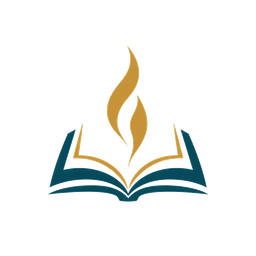
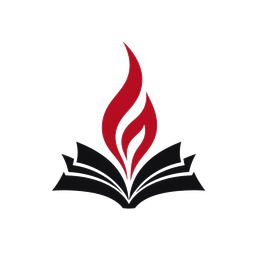
Restyle brand to black, white, and crimson.
Replace gold/teal accents, refresh logo and icons, and swap the text-heavy hero image.

Changed region(s): [[0.1875, 0.1562, 0.8125, 0.8438]]

diff --git a/src/style.css b/src/style.css
@@ -1,18 +1,18 @@
 :root {
-  --ink: #141c28;
-  --ink-soft: #5a6578;
-  --paper: #f4f7f8;
-  --paper-2: #e8eef1;
-  --sea: #234f5e;
-  --sea-deep: #173844;
-  --gold: #b08a4b;
-  --gold-soft: #d2b27a;
-  --line: rgba(20, 28, 40, 0.1);
-  --line-strong: rgba(20, 28, 40, 0.16);
+  --ink: #0a0a0a;
+  --ink-soft: #525252;
+  --paper: #ffffff;
+  --paper-2: #f4f4f5;
+  --sea: #111111;
+  --sea-deep: #000000;
+  --gold: #b91c1c;
+  --gold-soft: #e11d48;
+  --line: rgba(0, 0, 0, 0.1);
+  --line-strong: rgba(0, 0, 0, 0.16);
   --white: #ffffff;
-  --surface: rgba(255, 255, 255, 0.86);
+  --surface: rgba(255, 255, 255, 0.92);
   --surface-solid: #ffffff;
-  --shadow: 0 18px 40px rgba(20, 28, 40, 0.08);
+  --shadow: 0 18px 40px rgba(0, 0, 0, 0.08);
   --radius: 18px;
   --radius-sm: 12px;
   --font-display: "Instrument Serif", Georgia, serif;
@@ -38,9 +38,9 @@ body {
   font-family: var(--font-body);
   color: var(--ink);
   background:
-    radial-gradient(900px 420px at 8% -5%, rgba(35, 79, 94, 0.07), transparent 55%),
-    radial-gradient(800px 380px at 100% 0%, rgba(176, 138, 75, 0.08), transparent 50%),
-    linear-gradient(180deg, #f7fafb 0%, var(--paper) 45%, var(--paper-2) 100%);
+    radial-gradient(900px 420px at 8% -5%, rgba(185, 28, 28, 0.06), transparent 55%),
+    radial-gradient(800px 380px at 100% 0%, rgba(0, 0, 0, 0.04), transparent 50%),
+    linear-gradient(180deg, #ffffff 0%, var(--paper) 50%, var(--paper-2) 100%);
   line-height: 1.65;
   font-size: 1.02rem;
   font-weight: 400;
@@ -88,7 +88,7 @@ main,
   align-items: center;
   gap: 1.25rem;
   padding: 0.85rem clamp(1.25rem, 4vw, 3rem);
-  background: rgba(247, 250, 251, 0.88);
+  background: rgba(255, 255, 255, 0.9);
   backdrop-filter: blur(16px);
   border-bottom: 1px solid var(--line);
 }
@@ -150,7 +150,7 @@ main,
   align-items: center;
   justify-content: center;
   padding: 0.65rem 1.15rem;
-  background: var(--sea);
+  background: var(--gold);
   color: var(--white);
   font-size: 0.88rem;
   font-weight: 700;
@@ -159,7 +159,7 @@ main,
 }
 
 .header-cta:hover {
-  background: var(--sea-deep);
+  background: var(--gold-soft);
   transform: translateY(-1px);
 }
 
@@ -209,8 +209,8 @@ main,
   inset: 0;
   z-index: 1;
   background:
-    linear-gradient(90deg, rgba(12, 22, 32, 0.86) 0%, rgba(12, 22, 32, 0.55) 48%, rgba(12, 22, 32, 0.22) 100%),
-    linear-gradient(0deg, rgba(12, 22, 32, 0.78) 0%, transparent 55%);
+    linear-gradient(90deg, rgba(0, 0, 0, 0.88) 0%, rgba(0, 0, 0, 0.58) 48%, rgba(0, 0, 0, 0.28) 100%),
+    linear-gradient(0deg, rgba(0, 0, 0, 0.8) 0%, transparent 55%);
 }
 
 .hero-copy {
@@ -241,14 +241,14 @@ main,
 
 .hero h1 {
   font-size: clamp(2.9rem, 7vw, 5.2rem);
-  color: #fffcf7;
+  color: #ffffff;
 }
 
 .hero-lede {
   margin: 0 0 1.75rem;
   max-width: 33rem;
   font-size: 1.08rem;
-  color: rgba(255, 252, 247, 0.9);
+  color: rgba(255, 255, 255, 0.9);
 }
 
 .hero-actions,
@@ -279,7 +279,7 @@ main,
 
 .btn-primary {
   background: var(--gold);
-  color: #1a140c;
+  color: #ffffff;
 }
 
 .btn-primary:hover {
@@ -288,13 +288,13 @@ main,
 
 .btn-ghost {
   background: transparent;
-  border-color: rgba(255, 252, 247, 0.45);
+  border-color: rgba(255, 255, 255, 0.45);
   color: var(--white);
 }
 
 .btn-ghost:hover {
   border-color: var(--white);
-  background: rgba(255, 252, 247, 0.08);
+  background: rgba(255, 255, 255, 0.08);
 }
 
 .btn-outline {
@@ -305,7 +305,7 @@ main,
 
 .btn-outline:hover {
   border-color: var(--sea);
-  background: rgba(35, 79, 94, 0.05);
+  background: rgba(0, 0, 0, 0.04);
 }
 
 .btn-wide {
@@ -333,7 +333,7 @@ main,
 .page-hero-veil {
   position: absolute;
   inset: 0;
-  background: linear-gradient(90deg, rgba(244, 247, 248, 0.94) 0%, rgba(244, 247, 248, 0.82) 48%, rgba(244, 247, 248, 0.55) 100%);
+  background: linear-gradient(90deg, rgba(255, 255, 255, 0.96) 0%, rgba(255, 255, 255, 0.88) 48%, rgba(255, 255, 255, 0.58) 100%);
 }
 
 .page-hero-inner {
@@ -526,14 +526,14 @@ h3 {
 .text-link {
   color: var(--sea);
   font-weight: 700;
-  border-bottom: 1px solid rgba(35, 79, 94, 0.3);
+  border-bottom: 1px solid rgba(185, 28, 28, 0.35);
 }
 
 .soon-tag {
   display: inline-flex;
   padding: 0.35rem 0.7rem;
   border-radius: 999px;
-  background: rgba(176, 138, 75, 0.12);
+  background: rgba(185, 28, 28, 0.1);
   color: var(--gold);
   font-size: 0.75rem;
   font-weight: 700;
@@ -574,7 +574,7 @@ h3 {
 .field textarea {
   width: 100%;
   border: 1px solid var(--line-strong);
-  background: rgba(255, 252, 247, 0.95);
+  background: rgba(255, 255, 255, 0.98);
   border-radius: var(--radius-sm);
   padding: 0.85rem 1rem;
   color: var(--ink);
@@ -585,7 +585,7 @@ h3 {
 .field input:focus,
 .field textarea:focus {
   border-color: var(--sea);
-  box-shadow: 0 0 0 3px rgba(35, 79, 94, 0.12);
+  box-shadow: 0 0 0 3px rgba(185, 28, 28, 0.14);
 }
 
 .totals {
@@ -755,11 +755,11 @@ h3 {
 .site-footer {
   position: relative;
   overflow: hidden;
-  border-top: 1px solid rgba(255, 252, 247, 0.08);
+  border-top: 1px solid rgba(255, 255, 255, 0.08);
   padding: clamp(3.5rem, 7vw, 5rem) clamp(1.25rem, 4vw, 3rem) 2rem;
   background:
-    linear-gradient(160deg, #122633 0%, #1a3a48 48%, #0f1f29 100%);
-  color: rgba(255, 252, 247, 0.78);
+    linear-gradient(160deg, #000000 0%, #111111 48%, #0a0a0a 100%);
+  color: rgba(255, 255, 255, 0.78);
 }
 
 .footer-glow {
@@ -767,7 +767,7 @@ h3 {
   inset: -20% auto auto 30%;
   width: 50%;
   height: 60%;
-  background: radial-gradient(circle, rgba(176, 138, 75, 0.22), transparent 70%);
+  background: radial-gradient(circle, rgba(185, 28, 28, 0.28), transparent 70%);
   pointer-events: none;
 }
 
@@ -783,7 +783,7 @@ h3 {
   grid-template-columns: 1.15fr 1.35fr;
   gap: clamp(2rem, 5vw, 3.5rem);
   padding-bottom: 2.25rem;
-  border-bottom: 1px solid rgba(255, 252, 247, 0.1);
+  border-bottom: 1px solid rgba(255, 255, 255, 0.1);
 }
 
 .footer-brand {
@@ -802,7 +802,7 @@ h3 {
 
 .footer-inner .brand-name {
   margin: 0 0 0.2rem;
-  color: #fffcf7;
+  color: #ffffff;
   font-size: 1.7rem;
 }
 
@@ -816,7 +816,7 @@ h3 {
 .footer-blurb {
   margin: 0 0 1.25rem;
   max-width: 34rem;
-  color: rgba(255, 252, 247, 0.72);
+  color: rgba(255, 255, 255, 0.72);
 }
 
 .footer-cta {
@@ -834,14 +834,14 @@ h3 {
   font-family: var(--font-display);
   font-size: 1.25rem;
   font-weight: 400;
-  color: #fffcf7;
+  color: #ffffff;
 }
 
 .footer-col a,
 .footer-col p {
   display: block;
   margin: 0 0 0.55rem;
-  color: rgba(255, 252, 247, 0.7);
+  color: rgba(255, 255, 255, 0.7);
   font-size: 0.95rem;
 }
 
@@ -854,7 +854,7 @@ h3 {
   grid-template-columns: repeat(4, 1fr);
   gap: 1rem;
   padding: 1.6rem 0;
-  border-bottom: 1px solid rgba(255, 252, 247, 0.1);
+  border-bottom: 1px solid rgba(255, 255, 255, 0.1);
 }
 
 .trust-item {
@@ -862,12 +862,12 @@ h3 {
   align-items: center;
   gap: 0.65rem;
   padding: 0.75rem 0.85rem;
-  border: 1px solid rgba(255, 252, 247, 0.1);
+  border: 1px solid rgba(255, 255, 255, 0.1);
   border-radius: var(--radius-sm);
-  background: rgba(255, 252, 247, 0.04);
+  background: rgba(255, 255, 255, 0.04);
   font-size: 0.88rem;
   font-weight: 600;
-  color: rgba(255, 252, 247, 0.88);
+  color: rgba(255, 255, 255, 0.88);
 }
 
 .trust-item img {
@@ -884,11 +884,11 @@ h3 {
   gap: 0.75rem;
   padding-top: 1.25rem;
   font-size: 0.88rem;
-  color: rgba(255, 252, 247, 0.55);
+  color: rgba(255, 255, 255, 0.55);
 }
 
 .footer-note {
-  color: rgba(210, 178, 122, 0.75);
+  color: rgba(225, 29, 72, 0.8);
 }
 
 .home-band {
@@ -978,7 +978,7 @@ h3 {
   height: 0.55rem;
   border: 0;
   border-radius: 999px;
-  background: rgba(255, 252, 247, 0.35);
+  background: rgba(255, 255, 255, 0.35);
   cursor: pointer;
   padding: 0;
   transition: width 0.3s var(--ease), background 0.3s;
@@ -1007,7 +1007,7 @@ h3 {
 .surface:hover {
   transform: translateY(-4px);
   box-shadow: 0 24px 48px rgba(20, 28, 40, 0.12);
-  border-color: rgba(176, 138, 75, 0.35);
+  border-color: rgba(185, 28, 28, 0.35);
 }
 
 .shine {
@@ -1019,7 +1019,7 @@ h3 {
   content: "";
   position: absolute;
   inset: 0;
-  background: linear-gradient(110deg, transparent 30%, rgba(255, 252, 247, 0.28) 48%, transparent 65%);
+  background: linear-gradient(110deg, transparent 30%, rgba(255, 255, 255, 0.28) 48%, transparent 65%);
   transform: translateX(-120%);
   animation: shine-sweep 5.5s ease-in-out infinite;
   pointer-events: none;
@@ -1216,7 +1216,7 @@ h3 {
     left: 0;
     right: 0;
     padding: 1.1rem 1.25rem 1.4rem;
-    background: rgba(247, 250, 251, 0.98);
+    background: rgba(255, 255, 255, 0.98);
     border-bottom: 1px solid var(--line);
     gap: 0.85rem;
   }
